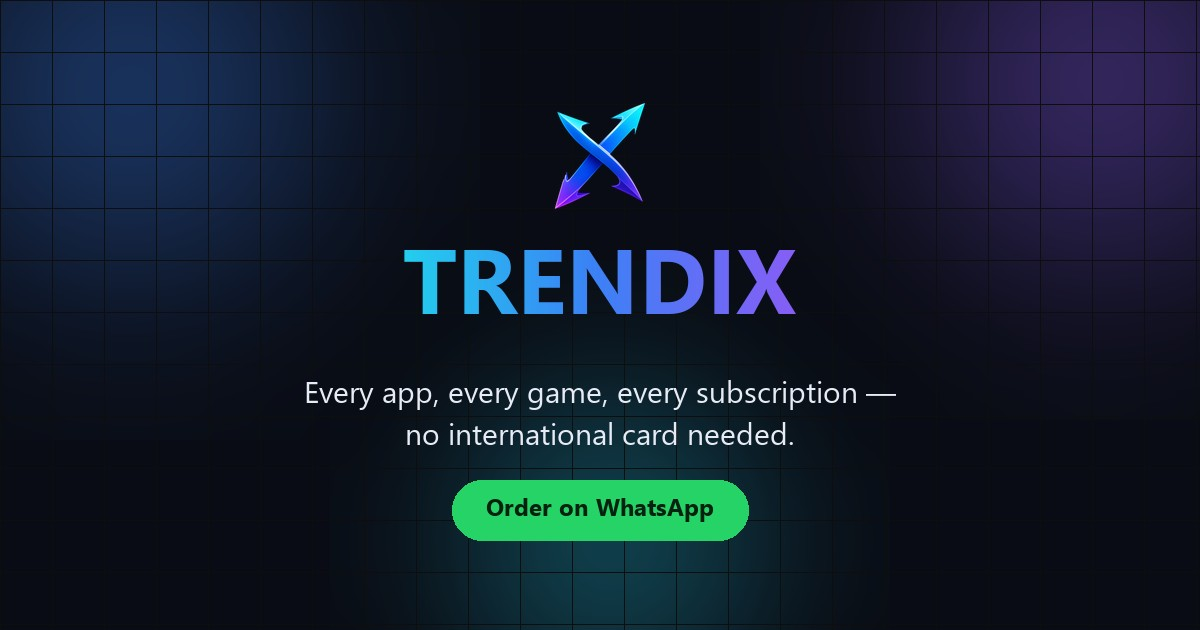
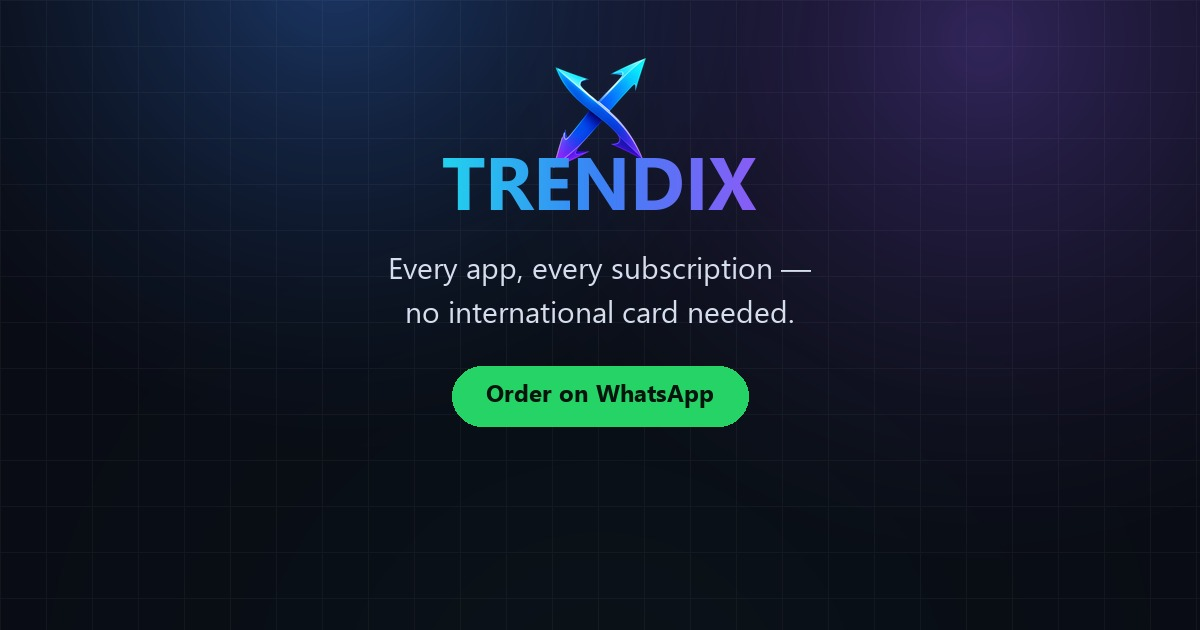
Remove all game-related content from the site
Searched the whole repo for game/gaming/PUBG/Free Fire/Mobile
Legends/Bigo/Xbox/PlayStation/Steam — the product catalog itself was
already game-free (rebuilt earlier this session from the real price
list), but found and removed remaining traces:

- index.html: title/meta/OG/Twitter copy ('any game'), hero subtitle,
  'how it works' step 1 copy, 'why Trendix' copy, and 3 gaming-platform
  pills (PlayStation Plus, Xbox Game Pass, Steam Wallet) from the trust
  marquee.
- js/i18n.js: same copy fixes mirrored in both EN and AR, plus removed
  the orphaned WA_MESSAGES.gaming template (dead code, no longer
  referenced since the catalog rebuild).
- assets/og-image.jpg: regenerated — the share image's subtitle read
  'Every app, every game, every subscription...'; rebuilt the whole
  image from the live logo mark with corrected copy, matching the
  existing dark gradient/grid/gradient-wordmark style.

Verified via repo-wide grep: zero remaining game-related matches
outside of unrelated incidental comments in the vendored Three.js
library (e.g. a URL containing 'gamedev.net').

diff --git a/js/i18n.js b/js/i18n.js
@@ -5,14 +5,12 @@ const WA_MESSAGES = {
   en: {
     generic: "Hi Trendix! I'd like to order a subscription or top-up.",
     streaming: "Hi Trendix! I'm interested in a streaming subscription (e.g. Netflix/Spotify). Can you help?",
-    gaming: "Hi Trendix! I'm interested in a gaming subscription or top-up (e.g. PS Plus/Xbox/Steam). Can you help?",
     apps: "Hi Trendix! I'm interested in a productivity or AI app subscription (e.g. ChatGPT Plus/Canva). Can you help?",
     other: "Hi Trendix! I'm looking for something that's not listed on your site. Can you help me get: "
   },
   ar: {
     generic: "مرحبا ترينديكس! حابب اطلب اشتراك أو شحن.",
     streaming: "مرحبا ترينديكس! مهتم باشتراك ستريمنغ (متل نتفليكس/سبوتيفاي). فيكم تساعدوني؟",
-    gaming: "مرحبا ترينديكس! مهتم باشتراك أو شحن ألعاب (متل بلايستيشن بلس/إكس بوكس/ستيم). فيكم تساعدوني؟",
     apps: "مرحبا ترينديكس! مهتم باشتراك تطبيق إنتاجية أو ذكاء اصطناعي (متل تشات جي بي تي بلس/كانفا). فيكم تساعدوني؟",
     other: "مرحبا ترينديكس! دوري على شي مو موجود بالموقع. فيكم تساعدوني احصل على: "
   }
@@ -20,15 +18,15 @@ const WA_MESSAGES = {
 
 const I18N = {
   en: {
-    "meta.title": "Trendix — Any app, any game, no card needed. Order on WhatsApp.",
-    "meta.desc": "Trendix gets you subscriptions and top-ups for Netflix, PlayStation, Xbox, Spotify, ChatGPT and more — no international card required. Message us on WhatsApp and we handle the rest, by hand.",
+    "meta.title": "Trendix — Every app, no card needed. Order on WhatsApp.",
+    "meta.desc": "Trendix gets you subscriptions and top-ups for Netflix, Spotify, ChatGPT and more — no international card required. Message us on WhatsApp and we handle the rest, by hand.",
     "nav.how": "How it works",
     "nav.catalog": "Catalog",
     "nav.why": "Why Trendix",
     "nav.faq": "FAQ",
     "nav.cta": "Order on WhatsApp",
     "hero.eyebrow": "No Visa or Mastercard? No problem.",
-    "hero.line1": "Every app, every game, every subscription you want.",
+    "hero.line1": "Every app, every subscription you want.",
     "hero.line2": "No international card needed — just message us on WhatsApp.",
     "hero.cta.primary": "Order on WhatsApp",
     "hero.cta.secondary": "See how it works",
@@ -40,7 +38,7 @@ const I18N = {
     "how.title": "Four steps. Zero card forms.",
     "how.sub": "No checkout page, no card fields, no waiting for a form to reject your payment. Just a conversation.",
     "how.1.title": "Tell us what you want",
-    "how.1.desc": "Send us the app, game or subscription you need on WhatsApp — one message is enough.",
+    "how.1.desc": "Send us the app or subscription you need on WhatsApp — one message is enough.",
     "how.2.title": "Get a clear price",
     "how.2.desc": "We reply with the exact price in your local currency and the payment options available to you.",
     "how.3.title": "Pay your way",
@@ -69,7 +67,7 @@ const I18N = {
     "why.2.title": "A real person replies",
     "why.2.desc": "Every order is confirmed and fulfilled by hand on WhatsApp, not a bot or an automated queue.",
     "why.3.title": "One place for almost everything",
-    "why.3.desc": "Streaming, gaming, productivity, AI tools — request it all through a single chat.",
+    "why.3.desc": "Streaming, productivity, AI tools — request it all through a single chat.",
     "why.4.title": "Often cheaper than list price",
     "why.4.desc": "We look for lower-cost routes to the same subscription and pass the savings on.",
     "why.5.title": "Fast, manual turnaround",
@@ -78,7 +76,7 @@ const I18N = {
     "why.6.desc": "No app to download and no account to create with us — everything runs through WhatsApp.",
     "faq.eyebrow": "Questions people ask first",
     "faq.title": "Frequently asked questions",
-    "faq.1.q": "Is this an official Netflix / PlayStation / Xbox / Spotify service?",
+    "faq.1.q": "Is this an official Netflix / Spotify service?",
     "faq.1.a": "No. Trendix is an independent order-fulfillment service. We are not affiliated with, endorsed by, or officially connected to the platforms mentioned on this site. We simply help you obtain and activate the subscriptions and top-ups you request.",
     "faq.2.q": "How do I pay if I don't have a Visa or Mastercard?",
     "faq.2.a": "Once you message us with what you need, we confirm the price and share the local payment options available to you — no international card required on your end.",
@@ -91,27 +89,27 @@ const I18N = {
     "faq.6.q": "What if something goes wrong with my order?",
     "faq.6.a": "Reach out on the same WhatsApp thread — our team resolves order issues directly with you, order by order.",
     "cta.title": "Ready to get what you actually want?",
-    "cta.sub": "Send us one WhatsApp message with the app, game or subscription you're after — we'll take it from there.",
+    "cta.sub": "Send us one WhatsApp message with the app or subscription you're after — we'll take it from there.",
     "cta.btn": "Message us on WhatsApp",
-    "footer.blurb": "Trendix helps you access the apps, games and subscriptions you want — no international card required. Every order is confirmed and fulfilled by hand on WhatsApp.",
+    "footer.blurb": "Trendix helps you access the apps and subscriptions you want — no international card required. Every order is confirmed and fulfilled by hand on WhatsApp.",
     "footer.explore": "Explore",
     "footer.contact": "Get in touch",
     "footer.contact.cta": "Chat with us",
     "footer.contact.hours": "We reply on WhatsApp, every day",
-    "footer.disclaimer": "Trendix is an independent service and is not affiliated with, sponsored by, or endorsed by Netflix, PlayStation, Xbox, Spotify, Steam, ChatGPT/OpenAI, Canva, Adobe, Microsoft, YouTube, Shahid, Disney, or any other platform mentioned on this site. All product names, logos and brands are the property of their respective owners and are used for identification purposes only.",
+    "footer.disclaimer": "Trendix is an independent service and is not affiliated with, sponsored by, or endorsed by Netflix, Spotify, ChatGPT/OpenAI, Canva, Adobe, Microsoft, YouTube, Shahid, Disney, or any other platform mentioned on this site. All product names, logos and brands are the property of their respective owners and are used for identification purposes only.",
     "footer.rights": "© 2026 Trendix. All rights reserved.",
     "wa.float": "Chat on WhatsApp"
   },
   ar: {
-    "meta.title": "ترينديكس — أي تطبيق، أي لعبة، بدون بطاقة. اطلب عبر واتساب.",
-    "meta.desc": "ترينديكس بيوفرلك اشتراكات وشحن لنتفليكس، بلايستيشن، إكس بوكس، سبوتيفاي، تشات جي بي تي وغيرها — بدون بطاقة عالمية. راسلنا عبر واتساب ونحن نتكفل بالباقي يدويًا.",
+    "meta.title": "ترينديكس — أي تطبيق، بدون بطاقة. اطلب عبر واتساب.",
+    "meta.desc": "ترينديكس بيوفرلك اشتراكات وشحن لنتفليكس، سبوتيفاي، تشات جي بي تي وغيرها — بدون بطاقة عالمية. راسلنا عبر واتساب ونحن نتكفل بالباقي يدويًا.",
     "nav.how": "كيف تطلب",
     "nav.catalog": "الكتالوج",
     "nav.why": "لماذا ترينديكس",
     "nav.faq": "الأسئلة الشائعة",
     "nav.cta": "اطلب عبر واتساب",
     "hero.eyebrow": "ما معك فيزا أو ماستركارد؟ ولا يهمك.",
-    "hero.line1": "أي تطبيق، أي لعبة، أي اشتراك تريده.",
+    "hero.line1": "أي تطبيق، أي اشتراك تريده.",
     "hero.line2": "بدون ما تحتاج بطاقة عالمية — بس راسلنا عبر واتساب.",
     "hero.cta.primary": "اطلب عبر واتساب",
     "hero.cta.secondary": "شوف كيف تسير الطلبية",
@@ -123,7 +121,7 @@ const I18N = {
     "how.title": "أربع خطوات، وبلا أي فورم بطاقة.",
     "how.sub": "بدون سلة شراء، بدون خانات بطاقة ائتمان، وبدون ما تنتظر يرفضولك الدفع. بس محادثة وخلص.",
     "how.1.title": "خبرنا شو تريد",
-    "how.1.desc": "ابعتلنا اسم التطبيق أو اللعبة أو الاشتراك يلي تحتاجه عبر واتساب — رسالة وحدة تكفي.",
+    "how.1.desc": "ابعتلنا اسم التطبيق أو الاشتراك يلي تحتاجه عبر واتساب — رسالة وحدة تكفي.",
     "how.2.title": "منعطيك السعر بوضوح",
     "how.2.desc": "منرد عليك بالسعر بالضبط بعملتك المحلية وخيارات الدفع المتوفرة عندك.",
     "how.3.title": "ادفع بالطريقة يلي تناسبك",
@@ -152,7 +150,7 @@ const I18N = {
     "why.2.title": "شخص حقيقي بيردلك",
     "why.2.desc": "كل طلب يتأكد وينفّذ يدويًا عبر واتساب، مو بوت أو طابور آلي.",
     "why.3.title": "مكان واحد لكل شي تقريبًا",
-    "why.3.desc": "ستريمنغ، ألعاب، إنتاجية، أدوات ذكاء اصطناعي — اطلب كلها من محادثة وحدة.",
+    "why.3.desc": "ستريمنغ، إنتاجية، أدوات ذكاء اصطناعي — اطلب كلها من محادثة وحدة.",
     "why.4.title": "غالبًا أرخص من السعر الرسمي",
     "why.4.desc": "منحاول نلاقي طرق أرخص لنفس الاشتراك، ومنمررلك التوفير.",
     "why.5.title": "تنفيذ سريع ويدوي",
@@ -161,7 +159,7 @@ const I18N = {
     "why.6.desc": "ما في تطبيق تحمّله ولا حساب تفتحه عنّا — كل شي بيصير عبر واتساب.",
     "faq.eyebrow": "أسئلة بتخطر ببال الكل",
     "faq.title": "الأسئلة الشائعة",
-    "faq.1.q": "هل هذا موقع رسمي تابع لنتفليكس / بلايستيشن / إكس بوكس / سبوتيفاي؟",
+    "faq.1.q": "هل هذا موقع رسمي تابع لنتفليكس / سبوتيفاي؟",
     "faq.1.a": "لا. ترينديكس خدمة تنفيذ طلبات مستقلة. إحنا مو تابعين ولا مرتبطين رسميًا بأي من المنصات المذكورة بالموقع. كل يلي منسويه هو مساعدتك تحصل على الاشتراكات والشحنات يلي تطلبها وتفعيلها إلك.",
     "faq.2.q": "كيف بادفع إذا ما معي فيزا أو ماستركارد؟",
     "faq.2.a": "بمجرد ما تراسلنا بيلي تحتاجه، منأكدلك السعر ومنشاركك خيارات الدفع المحلية المتوفرة عندك — بلا حاجة لبطاقة عالمية من طرفك.",
@@ -174,14 +172,14 @@ const I18N = {
     "faq.6.q": "شو بصير إذا صار في مشكلة بطلبيتي؟",
     "faq.6.a": "تواصل معنا بنفس محادثة الواتساب — فريقنا يحل مشاكل الطلبات معك مباشرة، طلب بطلب.",
     "cta.title": "جاهز تحصل على يلي تريده فعلًا؟",
-    "cta.sub": "ابعتلنا رسالة وحدة عبر واتساب بالتطبيق أو اللعبة أو الاشتراك يلي تدور عليه — وإحنا ناخد الموضوع من هون.",
+    "cta.sub": "ابعتلنا رسالة وحدة عبر واتساب بالتطبيق أو الاشتراك يلي تدور عليه — وإحنا ناخد الموضوع من هون.",
     "cta.btn": "راسلنا عبر واتساب",
-    "footer.blurb": "ترينديكس بيساعدك توصل للتطبيقات والألعاب والاشتراكات يلي تريدها — بدون ما تحتاج بطاقة عالمية. كل طلب يتأكد وينفّذ يدويًا عبر واتساب.",
+    "footer.blurb": "ترينديكس بيساعدك توصل للتطبيقات والاشتراكات يلي تريدها — بدون ما تحتاج بطاقة عالمية. كل طلب يتأكد وينفّذ يدويًا عبر واتساب.",
     "footer.explore": "تصفح",
     "footer.contact": "تواصل معنا",
     "footer.contact.cta": "راسلنا",
     "footer.contact.hours": "منرد عبر واتساب كل يوم",
-    "footer.disclaimer": "ترينديكس خدمة مستقلة وغير تابعة أو مرتبطة أو مدعومة رسميًا من نتفليكس، بلايستيشن، إكس بوكس، سبوتيفاي، ستيم، تشات جي بي تي / OpenAI، كانفا، أدوبي، مايكروسوفت، يوتيوب، شاهد، ديزني، أو أي منصة أخرى مذكورة بالموقع. جميع الأسماء والشعارات والعلامات التجارية ملك لأصحابها وتُستخدم لغرض التعريف فقط.",
+    "footer.disclaimer": "ترينديكس خدمة مستقلة وغير تابعة أو مرتبطة أو مدعومة رسميًا من نتفليكس، سبوتيفاي، تشات جي بي تي / OpenAI، كانفا، أدوبي، مايكروسوفت، يوتيوب، شاهد، ديزني، أو أي منصة أخرى مذكورة بالموقع. جميع الأسماء والشعارات والعلامات التجارية ملك لأصحابها وتُستخدم لغرض التعريف فقط.",
     "footer.rights": "© 2026 ترينديكس. جميع الحقوق محفوظة.",
     "wa.float": "تواصل عبر واتساب"
   }

diff --git a/index.html b/index.html
@@ -4,8 +4,8 @@
 <meta charset="UTF-8">
 <meta name="viewport" content="width=device-width, initial-scale=1, viewport-fit=cover">
 <meta name="google" content="notranslate">
-<title>Trendix — Any app, any game, no card needed. Order on WhatsApp.</title>
-<meta name="description" content="Trendix gets you subscriptions and top-ups for Netflix, PlayStation, Xbox, Spotify, ChatGPT and more — no international card required. Message us on WhatsApp and we handle the rest, by hand.">
+<title>Trendix — Every app, no card needed. Order on WhatsApp.</title>
+<meta name="description" content="Trendix gets you subscriptions and top-ups for Netflix, Spotify, ChatGPT and more — no international card required. Message us on WhatsApp and we handle the rest, by hand.">
 <meta name="theme-color" content="#090c14">
 <link rel="icon" href="/favicon.ico" sizes="any">
 <link rel="icon" type="image/png" sizes="32x32" href="favicon-32x32.png">
@@ -13,7 +13,7 @@
 <link rel="apple-touch-icon" sizes="180x180" href="apple-touch-icon.png">
 
 <!-- Open Graph -->
-<meta property="og:title" content="Trendix — Any app, any game, no card needed.">
+<meta property="og:title" content="Trendix — Every app, no card needed.">
 <meta property="og:description" content="Order subscriptions and top-ups on WhatsApp — no international card required.">
 <meta property="og:type" content="website">
 <meta property="og:url" content="https://trendix-market.com/">
@@ -24,7 +24,7 @@
 
 <!-- Twitter Card -->
 <meta name="twitter:card" content="summary_large_image">
-<meta name="twitter:title" content="Trendix — Any app, any game, no card needed.">
+<meta name="twitter:title" content="Trendix — Every app, no card needed.">
 <meta name="twitter:description" content="Order subscriptions and top-ups on WhatsApp — no international card required.">
 <meta name="twitter:image" content="https://trendix-market.com/assets/og-image.jpg">
 
@@ -148,7 +148,7 @@
       </h1>
 
       <div class="cosmos-subtitle" data-cosmos-reveal>
-        <p class="subtitle-line" data-i18n="hero.line1">Every app, every game, every subscription you want.</p>
+        <p class="subtitle-line" data-i18n="hero.line1">Every app, every subscription you want.</p>
         <p class="subtitle-line" data-i18n="hero.line2">No international card needed — just message us on WhatsApp.</p>
       </div>
 
@@ -192,9 +192,6 @@
         <span class="pill"><span class="dot"></span>Spotify</span>
         <span class="pill"><span class="dot"></span>YouTube Premium</span>
         <span class="pill"><span class="dot"></span>Shahid</span>
-        <span class="pill"><span class="dot"></span>PlayStation Plus</span>
-        <span class="pill"><span class="dot"></span>Xbox Game Pass</span>
-        <span class="pill"><span class="dot"></span>Steam Wallet</span>
         <span class="pill"><span class="dot"></span>ChatGPT Plus</span>
         <span class="pill"><span class="dot"></span>Canva Pro</span>
         <span class="pill"><span class="dot"></span>Adobe Creative Cloud</span>
@@ -216,7 +213,7 @@
         <div class="step-card spotlight glass-edge" data-reveal>
           <div class="step-num">01</div>
           <h3 data-i18n="how.1.title">Tell us what you want</h3>
-          <p data-i18n="how.1.desc">Send us the app, game or subscription you need on WhatsApp.</p>
+          <p data-i18n="how.1.desc">Send us the app or subscription you need on WhatsApp.</p>
         </div>
         <div class="step-card spotlight glass-edge" data-reveal>
           <div class="step-num">02</div>
@@ -277,7 +274,7 @@
         </div>
         <div class="why-item spotlight glass-edge" data-reveal>
           <div class="why-icon"><svg viewBox="0 0 24 24" fill="none" stroke="currentColor" stroke-width="2" stroke-linecap="round" stroke-linejoin="round"><rect x="3" y="3" width="7" height="7" rx="1.5"/><rect x="14" y="3" width="7" height="7" rx="1.5"/><rect x="3" y="14" width="7" height="7" rx="1.5"/><rect x="14" y="14" width="7" height="7" rx="1.5"/></svg></div>
-          <div><h3 data-i18n="why.3.title">One place for almost everything</h3><p data-i18n="why.3.desc">Streaming, gaming, productivity, AI tools.</p></div>
+          <div><h3 data-i18n="why.3.title">One place for almost everything</h3><p data-i18n="why.3.desc">Streaming, productivity, AI tools.</p></div>
         </div>
         <div class="why-item spotlight glass-edge" data-reveal>
           <div class="why-icon"><svg viewBox="0 0 24 24" fill="none" stroke="currentColor" stroke-width="2" stroke-linecap="round" stroke-linejoin="round"><path d="M12 2v20M17 5H9.5a3.5 3.5 0 0 0 0 7h5a3.5 3.5 0 0 1 0 7H6"/></svg></div>
